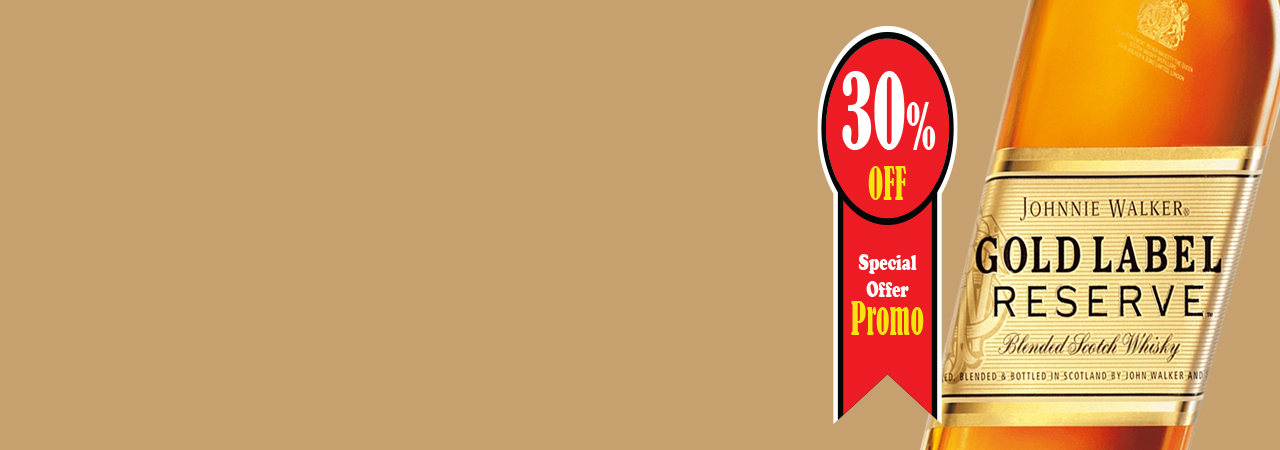
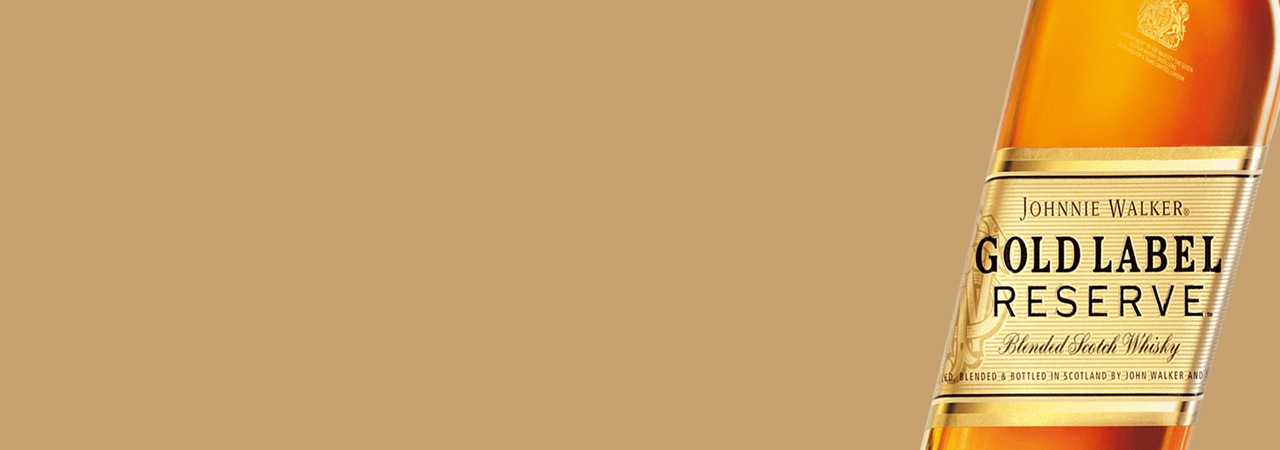
CSS Project

Changed region(s): [[0.625, 0.0622, 0.75, 0.9333]]

diff --git a/CSS/CSS_PJ/index.html b/CSS/CSS_PJ/index.html
@@ -41,6 +41,9 @@
             <button class="shop_now">Shop Now</button>
          </div>
       </div>
+      <div>
+        <img src="images/carousel_promo.jpg" alt="" class="carousel_icon">
+      </div>
      <!-- End bunner -->
       <div class="adver">
         <div class="adv">

diff --git a/CSS/CSS_PJ/css/style.css b/CSS/CSS_PJ/css/style.css
@@ -83,6 +83,14 @@
     cursor: pointer;
 }
 
+.carousel_icon{
+    position: absolute;
+    top: 120px;
+    padding-left: 900px;
+    width: 200px;
+    height: 320px;
+}
+
 /* End bunner */
 
 
